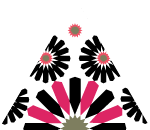
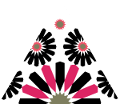
resize down cells

diff --git a/src/scope/Scope.js b/src/scope/Scope.js
@@ -1,6 +1,6 @@
 import React from 'react';
 
-const radius = 150, height = 260;
+const radius = 120, height = 208;
 const shift = (3*height - 5*radius) / 2;
 
 class Scope extends React.Component {

diff --git a/src/scope/ScopeMobile.js b/src/scope/ScopeMobile.js
@@ -1,6 +1,6 @@
 import React from 'react';
 
-const radius = 150, height = 260;
+const radius = 120, height = 208;
 let i;
 
 class ScopeMobile extends React.Component {
